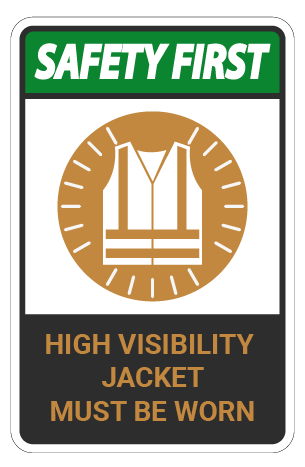
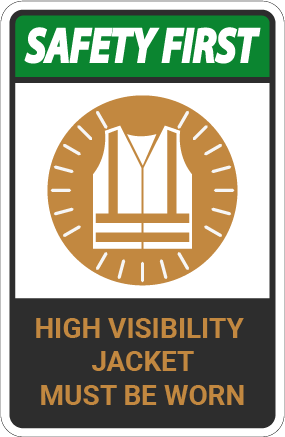
home update images

diff --git a/src/sections/HeroSection/components/HeroCarousel.tsx b/src/sections/HeroSection/components/HeroCarousel.tsx
@@ -34,7 +34,7 @@ export const HeroCarousel: React.FC<HeroCarouselProps> = ({
             "Dynamically target high-payoff intellectual capital for customized technologies. Objectively integrate emerging core competency innovations.",
           ctaText: "View our services",
           ctaHref: "#services",
-          imageUrl: "/images/quality-hero.png",
+          imageUrl: "/images/home/The-crafting-excellence.png",
           overlay: "bg-black/50",
         },
         {
@@ -45,7 +45,7 @@ export const HeroCarousel: React.FC<HeroCarouselProps> = ({
             "From concept to completion, we deliver quality workmanship and reliable results for demanding projects.",
           ctaText: "Explore projects",
           ctaHref: "#projects",
-          imageUrl: "/images/quality-hero.png",
+          imageUrl: "/images/home/Precision-engineerine.jpg",
           overlay: "bg-black/45",
         },
         {
@@ -56,7 +56,7 @@ export const HeroCarousel: React.FC<HeroCarouselProps> = ({
             "We combine modern technology with experienced craftsmanship to achieve consistent, scalable outcomes.",
           ctaText: "Contact us",
           ctaHref: "#contact",
-          imageUrl: "/images/quality-hero.png",
+          imageUrl: "/images/home/Innovation-in-motion.jpg",
           overlay: "bg-black/40",
         },
       ],

diff --git a/app/policy/visitor-policy/page.tsx b/app/policy/visitor-policy/page.tsx
@@ -193,7 +193,7 @@ export default function VisitorPolicyPage() {
             <div className="grid grid-cols-4 md:grid-cols-7 gap-2">
               {[
                 {
-                  img: "/images/policy/visitor-policy/1x/HIGH VISIBILITY JACKET MUST BE WORN.webp",
+                  img: "/images/policy/visitor-policy/1x/HIGH VISIBILITY JACKET MUST BE WORN.png",
                 },
                 {
                   img: "/images/policy/visitor-policy/1x/SAFETY HELMET MUST BE WORN.webp",
